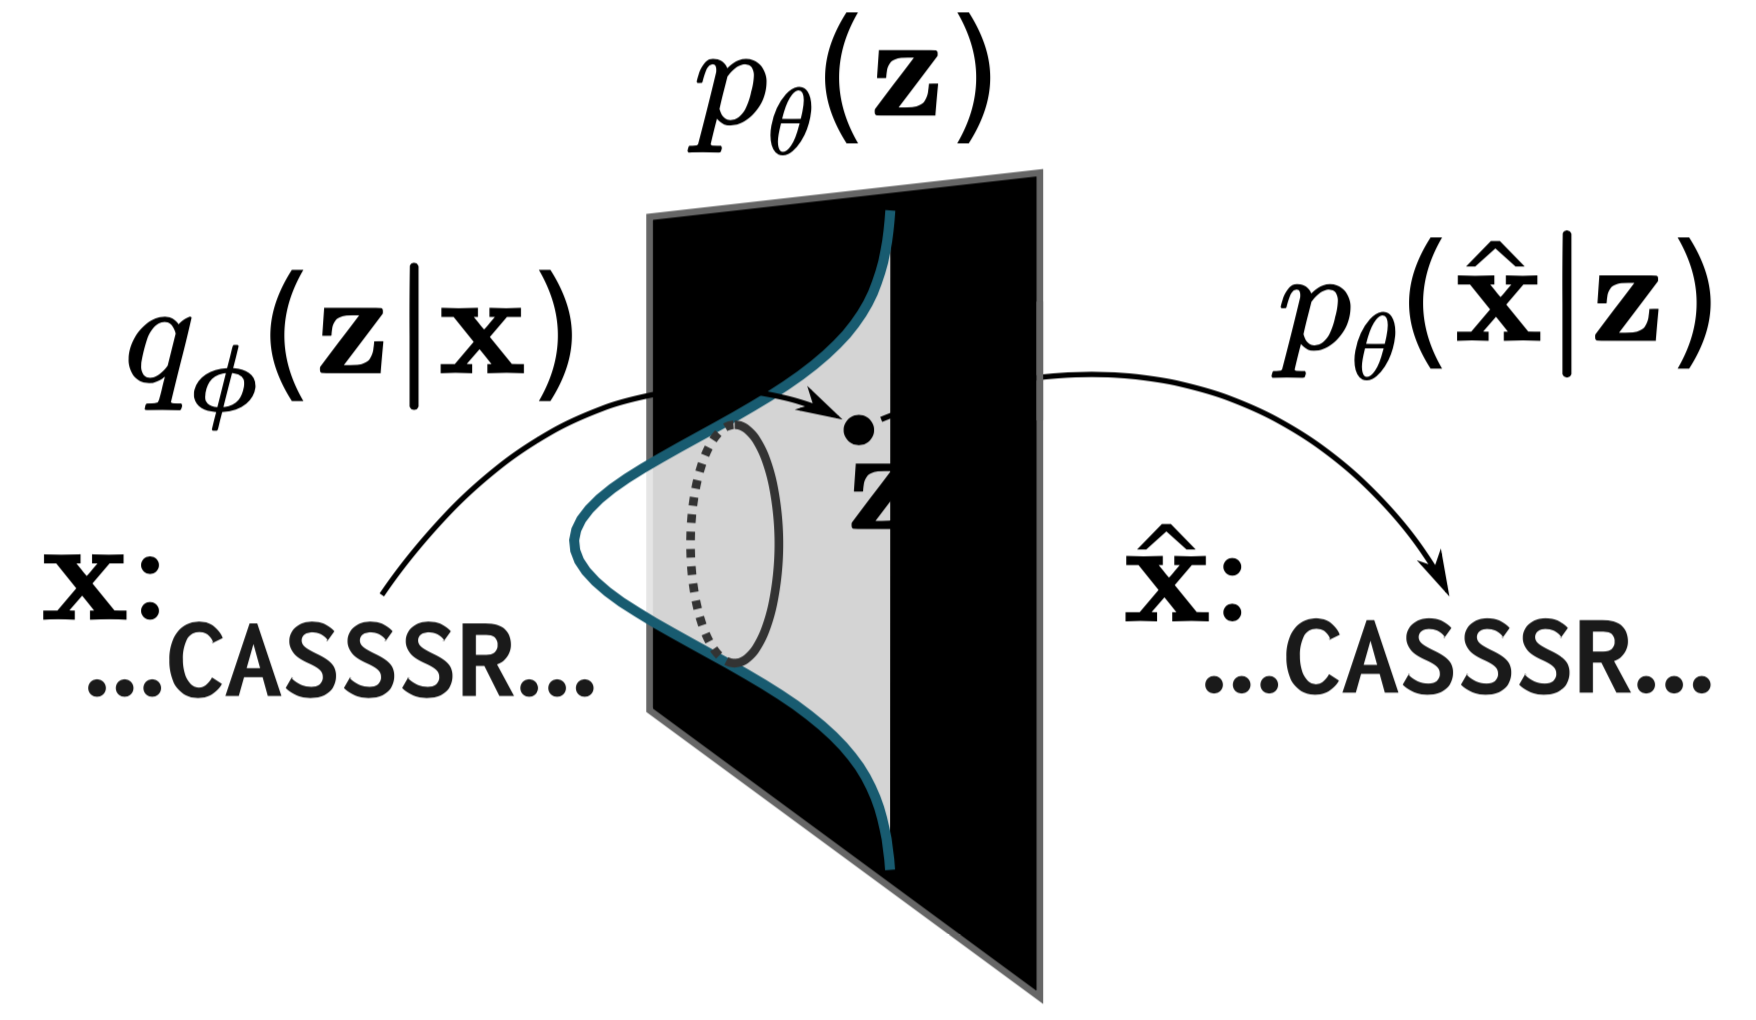
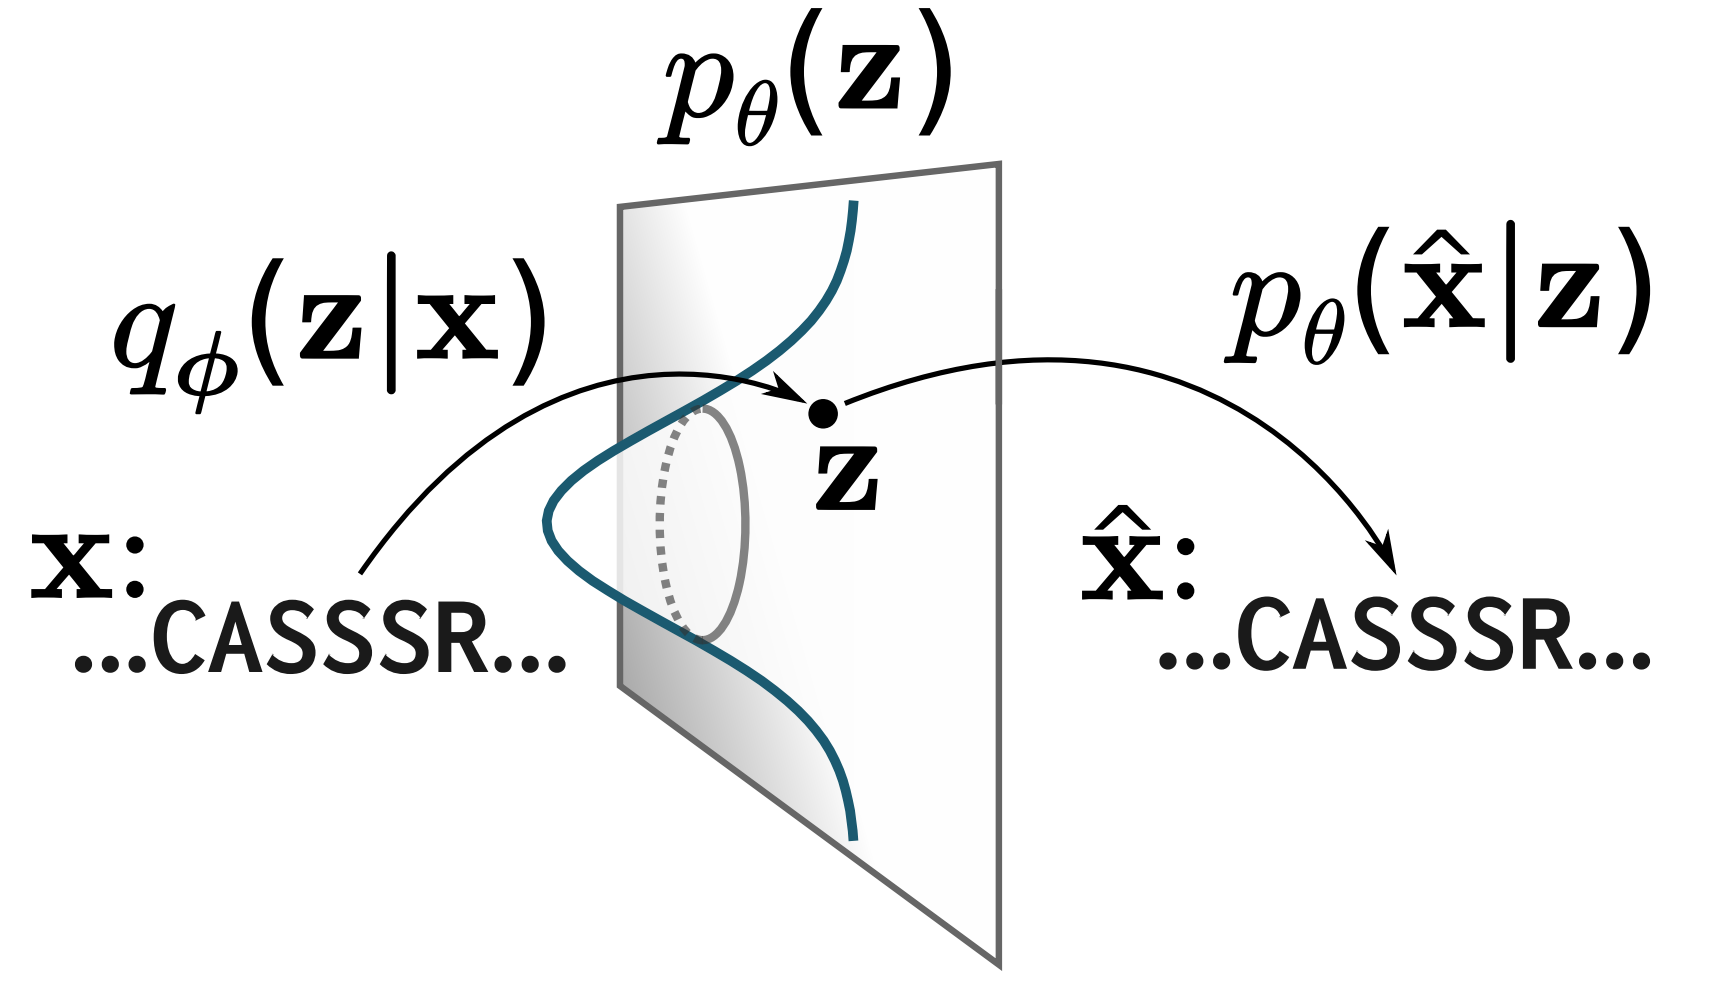
Minor edits

diff --git a/Orientation2018/BrandenOlsonOrientationTalk.tex b/Orientation2018/BrandenOlsonOrientationTalk.tex
@@ -488,7 +488,7 @@ Simulation (top) looks very different than observations (bottom)
 \begin{frame}\frametitle{Prior work}
 \begin{itemize}
 \item
-There have been extensive evaluations of repertoire simulators focused on particular tools/questions	
+Usually, validation of repertoire simulators is focused on a particular tool/question
 \medskip
 \begin{itemize}
 \item
@@ -564,8 +564,10 @@ Scoring formula:
 	& = \log \left( \frac{ \text{average div. of obs. to sim. counterpart} }
 					{ \text{average div. of obs. to other obs.} } \right)
 \ea 
+\begin{itemize}
+\item
 $R_{i, \text{obs}}$ is the $i$th observed dataset and $R_{i, \text{sim}}$ is the simulation based on the $i$th observed dataset.  
-\bigskip
+\end{itemize}
 \end{itemize}
 \end{frame}
 
@@ -617,11 +619,6 @@ Train the VAE on $\approx300,000$ sequences from an individual with cytomegalovi
 \item
 Also train IGoR, the state-of-the-art TCR inference and generative model, on same dataset
 \bigskip
-\begin{itemize}
-\item
-IGoR uses a Bayesian network $+$ hypermutation model for likelihood-based inference
-\end{itemize}
-\bigskip
 \item
 Investigate summary distributions for the observed, VAE-simulated, and IGoR-simulated datasets 
 \end{itemize}
@@ -671,6 +668,11 @@ Questions?
 \end{center}
 \end{frame}
 
+\begin{frame}
+\begin{center}
+\includegraphics[width=\linewidth]{Images/VAE_diagram.png}
+\end{center}
+\end{frame}
 
 \end{document}
 
